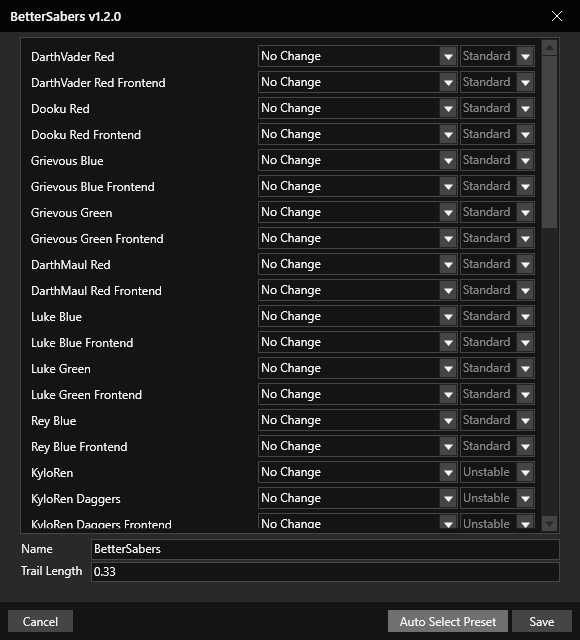
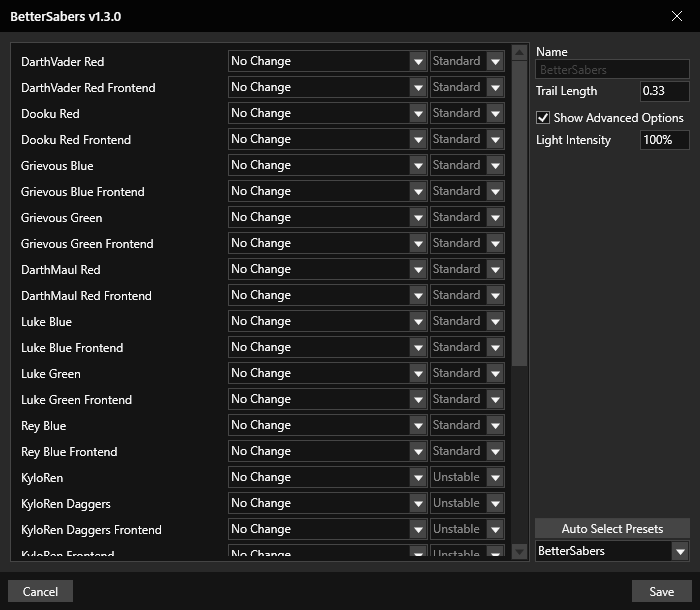
prep for 1.3

Changed region(s): [[0.0, 0.0, 0.9931, 0.9967]]

diff --git a/docs/stylesheets/extra.css b/docs/stylesheets/extra.css
@@ -1,10 +1,59 @@
+:root {
+  --md-tooltip-width: 750px;
+  
+  --md-default-fg-color--light: #cecece;
+}
+
+/* Page Background Color */
+[data-md-color-scheme="slate"] {
+  --md-default-bg-color: #0e0e0e;
+}
+
+/* Hover Color */
+[data-md-color-accent="indigo"] {
+  --md-accent-fg-color: #7e4fff;
+}
+
+/* H1, H2, etc */
+.md-typeset h1 {
+  color: #aaa;
+  font-size: 2em;
+}
+.md-typeset h2 {
+  color: #ccc;
+  font-size: 1.69em;
+  font-weight: 400;
+}
+.md-typeset h5 {
+  color: #999;
+}
+.md-typeset code {
+  color: #fff;
+  background-color: #1e1e1e;
+}
+.filename {
+  color: #fff;
+  background-color: #1e1e1e !important;
+}
+
+/* Header */
+.md-header {
+  background-color: #000;
+}
+.md-nav__title {
+  color: #fff;
+}
+
+
 /* Button */
 .md-typeset .md-button {
     background-color: var(--md-primary-fg-color);
     border-color: var(--md-primary-fg-color);
     color: #fff;
-    padding:.4em 1em;
-    transition:opacity 125ms;
+    padding: 0.4em 1em;
+    transition: opacity 125ms;
+    border-radius: 0.4rem;
+    margin-right: 0.1rem;
 }
 .md-typeset .md-button:focus,
 .md-typeset .md-button:hover {
@@ -14,8 +63,15 @@
   opacity: 0.75;
 }
 
-:root {
-    --md-tooltip-width: 750px;
+.round-corners {
+  border-radius: 0.75em;
+  /*border: 2px solid var(--md-primary-fg-color);*/
+}
+
+/* Footer */
+.md-footer,
+.md-footer-meta {
+    background-color: #000;
 }
 
 @media screen and (min-width:45em) {

diff --git a/docs/Tutorials/AutoPreset.md b/docs/Tutorials/AutoPreset.md
@@ -1,12 +1,15 @@
 # Auto Select Preset
 
-The presets automatically selected by the `Auto Select Preset` button can be changed
+The presets automatically selected by the `Auto Select Presets` button can be changed with auto select packs.
 
-![image](../assets/images/AutoSelectPreset.png){ width="300"}
+![image](../assets/images/AutoSelectPreset.png){ width="400"}
 
-The `BetterSabersPresets\.AutoSelect\Presets.json` file is where the auto selection of presets can be set by the user:
+`NAME.pack.json` files control the auto selection of presets, aswell as the default name used in the generated mod.  
+Users and creators can create new files using the `.pack.json` file extension to add new auto select packs to the dropdown below the `Auto Select Presets` button.
 
-``` json title=".AutoSelect\Presets.json"
+`BetterSabersPlugin\BetterSabers\BetterSabers.pack.json` is the default **BetterSabers** auto select pack:
+
+``` json title="BetterSabersPlugin\BetterSabers\BetterSabers.pack.json"
 {
   "red": "Red [BetterSabers]",
   "cd": "Red [BetterSabers]",
@@ -25,10 +28,13 @@ The `BetterSabersPresets\.AutoSelect\Presets.json` file is where the auto select
 }
 ```
 
-The left side is the search pattern, while the right side is the preset name.  
-If a saber blueprint contains the text[^1] `red`, `cd`, or `kylo` in its name, it will select the preset named `Red [BetterSabers]`.  
-The file is read from top to bottom, so a file containing `greenyellow` will auto select Lime since it is above Green.
+Values on the left are checked against FX files' names. If the value is found in the name, the Preset on the right side gets auto selected.
 
-To reset all changes, delete the `Presets.json` file.
+For example, if a saber blueprint contains the text[^1] `red`, `cd`, or `kylo` in its name, it will select the preset named `Red [BetterSabers]`.  
+
+**Notes:**  
+• The file is read from top to bottom, so a file containing `greenyellow` will auto select Lime since it is above Green, even though `green` would also be satisfied.  
+• The filename[^2] is used for the name shown in the dropdown.
 
 [^1]: Case Insensitive
+[^2]: Without the file extension

diff --git a/docs/Tutorials/ExamplePreset.md b/docs/Tutorials/ExamplePreset.md
@@ -23,11 +23,13 @@ The Example Preset goes over how a preset functions
   // Light (3)
   "LightColor": [1, 1, 1],
   "LightIntensity": 100,
-  "LightFalloffOffset": 0.5,
+  "LightPulseIntensity": 0.25,
+  "LightFalloffOffset": 0.1,
   "LightFalloffRadius": 10,
 
   // Shape (4)
   "Width": 0.03,
+  "LengthMult": 1.0,
   "TipLength": 0.075,
   "TipMinWidth": 0.2,
 
@@ -54,9 +56,11 @@ It is recommended to look at the included presets to understand how a final pres
 2. Where you name your preset aswell as crediting yourself as the author.  
 Version is a string, by default it will use the version of the plugin
 
-3. Controls the light emitted onto the world.
+3. Controls the light emitted onto the world.  
+LightPulseIntensity is multiplied by 3.6x for unstable sabers
 
 4. Controls the shape of the saber.  
+LengthMult multiplies the existing length of the saber.  
 For consistency, unstable sabers have a 1.69x multiplier on the Width aswell as having 0.1 added to the TipLength in here
 
 5. Controls the trail of the saber.  

diff --git a/docs/Changelog.md b/docs/Changelog.md
@@ -1,5 +1,15 @@
 # Changelog
 
+## v1.3.0
+- Major update to BetterSabers window
+    - New Dropdown for [Auto Select Presets](../Tutorials/AutoPreset/)
+    - Added Light Intensity option
+    - More space for options
+- Added LengthMult property: Multiplies the existing length of the saber.
+- Added LightPulseIntensity property: Changes the flickering of the light.
+- Adjust default light falloff offset
+- Various other changes and fixes
+
 ## v1.2.1
 - Fixes with preset loading
 - Support for name overrides

diff --git a/docs/index.md b/docs/index.md
@@ -1,6 +1,6 @@
 # Overview
 
-![MainImage](https://staticdelivery.nexusmods.com/mods/2229/images/16/16-1695071631-1985452097.png)
+![MainImage](https://staticdelivery.nexusmods.com/mods/2229/images/16/16-1695071631-1985452097.png){ .round-corners }
 
 **Lightsaber Manager for Battlefront 2**  
 Gives you total control over all the sabers in the game and your modlist.  

diff --git a/docs/Tutorials/Installation.md b/docs/Tutorials/Installation.md
@@ -7,4 +7,4 @@
 
 ## Using the Plugin
 
-1. Launch the Mod Manager ([latest](https://github.com/CadeEvs/FrostyToolsuite/releases)) and press the 'Tools' menu at the top and click 'BetterSabers'
+1. Launch the Mod Manager ([latest](https://github.com/CadeEvs/FrostyToolsuite/releases)) and press the `Tools` menu at the top and click `BetterSabers`
